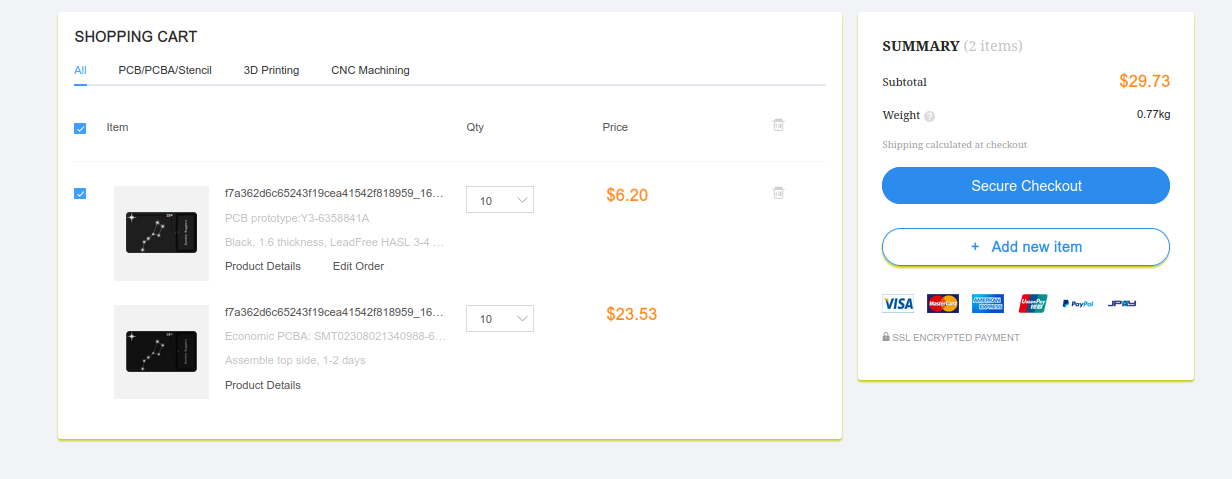
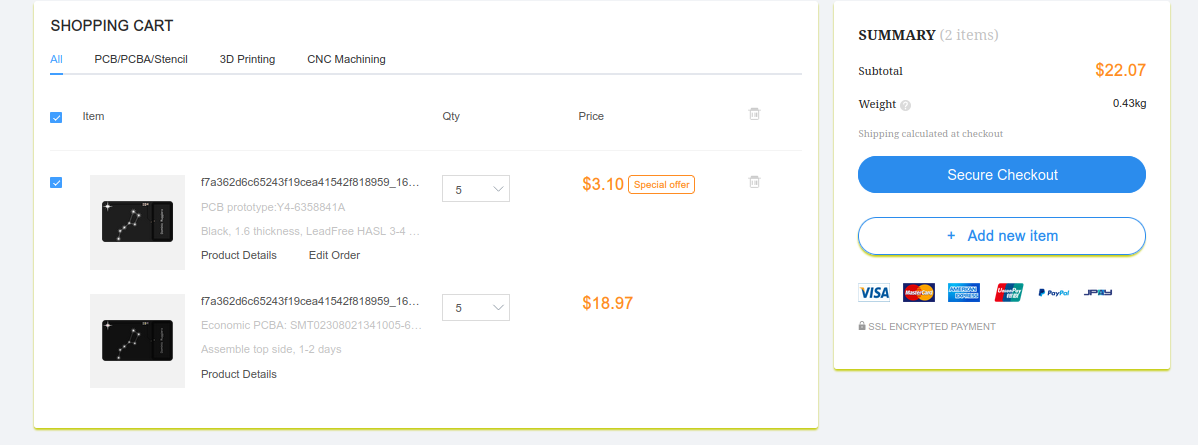
update to 5 boards

diff --git a/projects/Dominic's NFC Card/README.md b/projects/Dominic's NFC Card/README.md
@@ -13,9 +13,9 @@ project: "Dominic's NFC Card"
 
 ## Plan
 
-Order 10 boards (or are they cards now) from JCLPCB, with parts comes out to just under. Shipping is ~$15.
+Order 5 boards (or are they cards now) from JCLPCB, with parts comes out to just over $22 with a _"special offer_. Shipping is ~$15.
 
-Then probably use the rest of the money to make another batch with a different design? Not sure on the rules for this.
+Then probably make another batch with a different design? Not sure on the rules for this.
 
 ## Design
 
